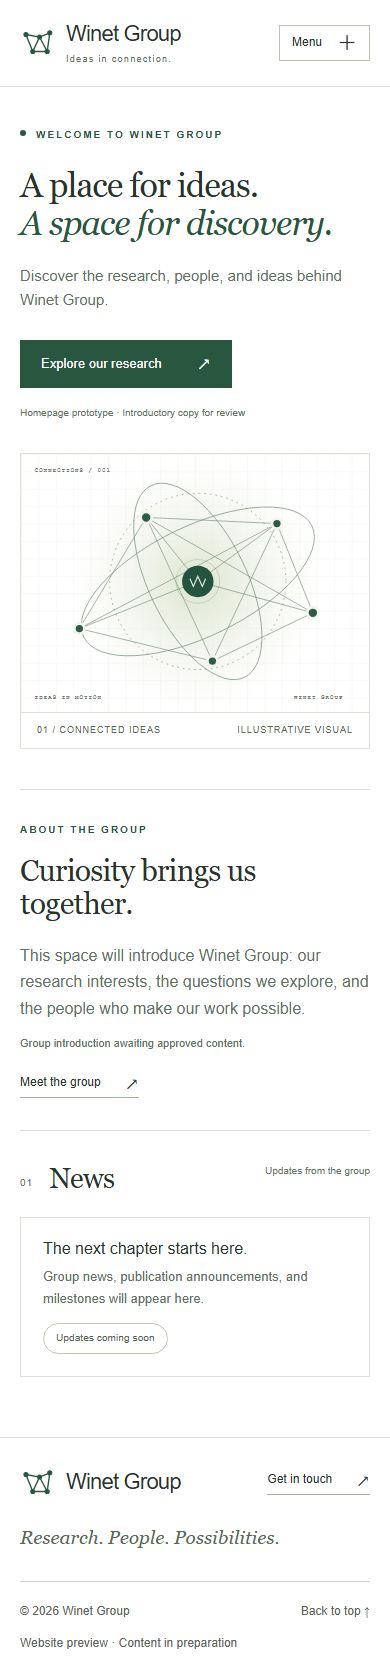
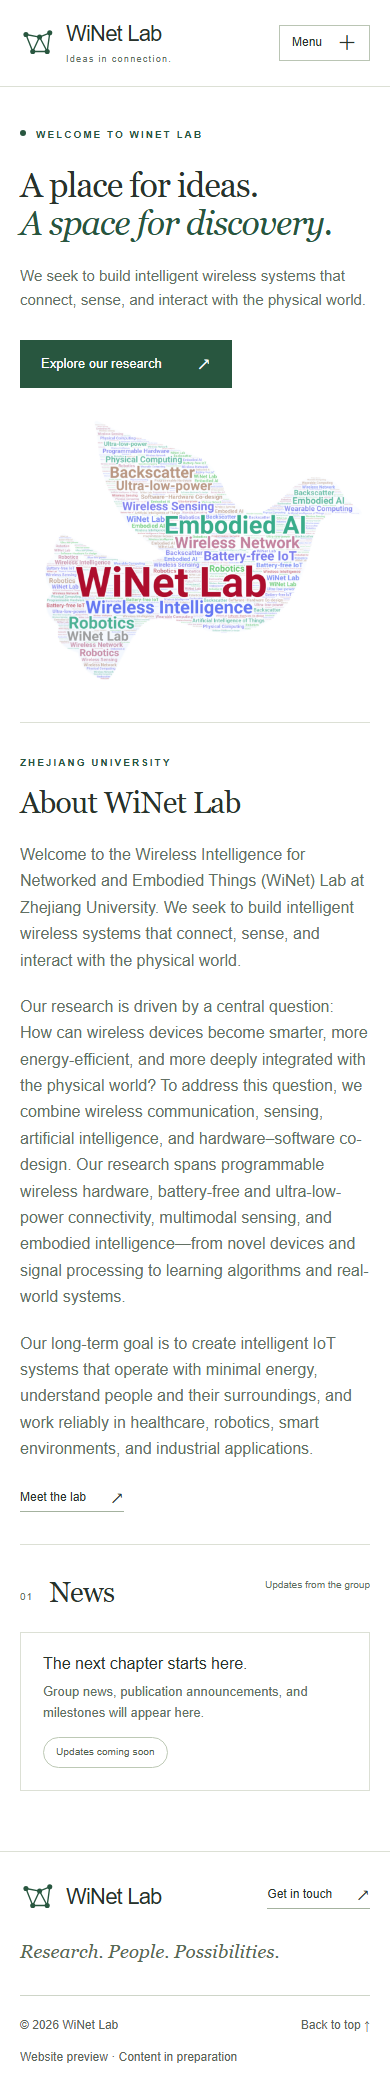
feat: integrate WiNet Lab introduction and word cloud

diff --git a/tests/home.spec.ts b/tests/home.spec.ts
@@ -10,7 +10,28 @@ test('homepage content, links, local assets and accessibility', async ({
   page.on('request', (request) => requests.push(request.url()));
   await page.goto('/');
   await expect(page.locator('html')).toHaveAttribute('lang', 'en');
-  await expect(page).toHaveTitle('Home | Winet Group');
+  await expect(page).toHaveTitle('Home | WiNet Lab');
+  await expect(
+    page.getByRole('heading', { name: 'About WiNet Lab', exact: true }),
+  ).toBeVisible();
+  await expect(page.locator('.about-copy > p')).toHaveCount(3);
+  await expect(page.locator('.about-copy')).toContainText(
+    'Wireless Intelligence for Networked and Embodied Things (WiNet) Lab at Zhejiang University',
+  );
+  const visual = page.getByRole('img', {
+    name: /WiNet Lab research word cloud/,
+  });
+  await expect(visual).toBeVisible();
+  await expect
+    .poll(() =>
+      visual.evaluate(
+        (img: HTMLImageElement) =>
+          img.complete &&
+          img.naturalWidth === 2154 &&
+          img.naturalHeight === 1614,
+      ),
+    )
+    .toBe(true);
   await expect(page.getByRole('heading', { level: 1 })).toHaveCount(1);
   await expect(
     page.getByRole('heading', { name: 'News', exact: true }),
@@ -39,6 +60,7 @@ test('homepage content, links, local assets and accessibility', async ({
   expect(errors).toEqual([]);
   const text = await page.locator('body').innerText();
   expect(text).not.toMatch(/[\u3400-\u9fff]/);
+  expect(text).not.toMatch(/winet\s+group/i);
   await page.keyboard.press('Tab');
   await expect(
     page.getByRole('link', { name: 'Skip to content' }),

diff --git a/src/styles/global.css b/src/styles/global.css
@@ -87,7 +87,7 @@
   }
   .about {
     display: grid;
-    grid-template-columns: 1fr 1fr;
+    grid-template-columns: 0.65fr 1.35fr;
     gap: 70px;
     padding: 46px 0 54px;
   }
@@ -142,9 +142,6 @@
   .brand span {
     font-size: 24px;
     letter-spacing: -0.8px;
-  }
-  .brand strong {
-    font-weight: 400;
   }
   .brand small {
     display: block;
@@ -230,30 +227,14 @@
     font-size: 19px;
     line-height: 1;
   }
-  .preview-note {
-    font-size: 10px;
-    color: var(--muted);
-    margin-top: 17px;
-  }
   .hero-visual {
     background: var(--paper);
-    border: 1px solid #dde2d5;
   }
-  .network-art {
+  .hero-visual img {
     display: block;
     width: 100%;
     height: auto;
-  }
-  figcaption {
-    display: flex;
-    justify-content: space-between;
-    gap: 12px;
-    border-top: 1px solid #dce1d3;
-    padding: 10px 16px;
-    font-size: 9px;
-    text-transform: uppercase;
-    letter-spacing: 1px;
-    color: #586954;
+    object-fit: contain;
   }
   .about h2 {
     font-family: var(--serif);
@@ -262,14 +243,10 @@
     margin-top: 15px;
     letter-spacing: -0.7px;
   }
-  .about-copy > p:first-child {
+  .about-copy > p {
     color: var(--muted);
     font-size: 16px;
-  }
-  .content-note {
-    font-size: 11px;
-    color: var(--muted);
-    margin: 12px 0 16px;
+    margin-bottom: 20px;
   }
   .text-link {
     display: inline-flex;
@@ -536,8 +513,7 @@
   }
   @media print {
     .menu-toggle,
-    .skip-link,
-    .preview-note {
+    .skip-link {
       display: none;
     }
     .container {

diff --git a/src/lib/paths.ts b/src/lib/paths.ts
@@ -1,6 +1,10 @@
-/** One URL helper for both root sites and GitHub Pages project sites. */
-export function sitePath(path = ''): string {
+/** Shared base handling for pages and files on GitHub Pages project sites. */
+export function assetPath(path: string): string {
   const base = import.meta.env.BASE_URL.replace(/\/$/, '');
+  return `${base}/${path.replace(/^\/+/, '')}`;
+}
+
+export function sitePath(path = ''): string {
   const suffix = path.replace(/^\/+|\/+$/g, '');
-  return `${base}/${suffix}${suffix ? '/' : ''}`;
+  return assetPath(`${suffix}${suffix ? '/' : ''}`);
 }

diff --git a/docs/architecture.md b/docs/architecture.md
@@ -1,15 +1,16 @@
-# Architecture — F01
+# Architecture — WiNet Lab
 
-Status: implemented for the Home prototype, pending user acceptance. Updated 2026-09-15.
+Status: Home layout and first supplied content batch implemented, pending user acceptance. Updated 2026-09-15.
 
 ## Boundaries
 
 - `src/layouts/SiteLayout.astro`: document language, metadata, shared header/footer, global stylesheet, and skip link.
-- `src/components/`: shared navigation, footer, section heading, and original decorative artwork. Header owns its mobile-menu script. Pages do not import other pages.
+- `src/components/`: shared Brand, navigation, footer, section heading, and small decorative brand mark. Header owns its mobile-menu script. Brand reads the name from site.json for both header and footer. Pages do not import other pages.
 - `src/pages/index.astro`: Home composition only.
 - `src/pages/[section].astro`: generates four explicitly unfinished route shells from navigation data. Replace with independent pages as their tasks are approved.
-- `src/data/site.json`: identity, description, navigation. `src/data/home.json`: introductory copy and section empty states. Fixed interface labels remain in components.
-- `src/lib/paths.ts`: shared base-path handling for every internal page link.
+- `src/data/site.json`: identity, description, navigation. `src/data/home.json`: hero copy, image metadata, the three supplied introduction paragraphs, and News empty-state text. Fixed interface labels remain in components.
+- `src/lib/paths.ts`: shared base-path handling for internal page links and static image URLs. File URLs do not receive page-style trailing slashes.
+- `public/images/winet-lab-wordcloud.png`: the user-supplied original Home image, 2154×1614; preserved without cropping or redrawing.
 - `src/styles/global.css`: design tokens, layout, components, responsive rules. No external fonts or image services.
 - `tests/` and `scripts/`: production-browser verification, screenshot capture, and a separate repository-base-path check.
 
@@ -19,7 +20,7 @@ Astro generates five static HTML pages. Only mobile navigation needs client Java
 
 The MARS Lab reference informed the five-page navigation. Following user review, Home now contains the visual introduction, group introduction, News, and footer; Events and Collaborators were removed from markup, content data, and styles. The reference is guidance, not a requirement to reproduce every section. Its page text and stylesheet structure were read; the live reference screenshot failed with ERR_CONNECTION_RESET. Pixel-level equivalence has not been verified or claimed.
 
-This prototype uses a pure-white (#ffffff) page background, forest green accents, system sans-serif body text, and Georgia headings. The footer, News panel, and illustration container also use white; the illustration retains its own graphic colors. The network illustration and group mark are original code graphics, not approved branding or actual research imagery. No reference-site people, publications, partner logos, or photos were copied.
+This site uses a pure-white (#ffffff) page background, forest green accents, system sans-serif body text, and Georgia headings. The footer, News panel, and image container also use white. The supplied word cloud replaces the original network illustration; its original colors and proportions are preserved. The old NetworkArt component and caption were removed. The small navigation/footer mark remains a draft code graphic. No reference-site people, publications, partner logos, or photos were copied.
 
 ## Runtime
 

diff --git a/docs/content-maintenance.md b/docs/content-maintenance.md
@@ -2,15 +2,15 @@
 
 Updated 2026-09-15. The website is English-only; the online content editor is required but not implemented.
 
-The user explicitly declined the proposed local content-management tool. The current priority is integrating real material into the initial five-page website; the final online editor follows. Do not build a local editor as an intermediate deliverable. Keep content separate from presentation so the final editor can use the same data. The project currently contains placeholder text only; the user's stated collection of material has not yet been supplied or located in the workspace.
+The user explicitly declined the proposed local content-management tool. The current priority is integrating real material into the initial five-page website; the final online editor follows. Do not build a local editor as an intermediate deliverable. Keep content separate from presentation so the final editor can use the same data. The user has now supplied the Home introduction and word cloud; other page records are still pending.
 
 ## Editing at this milestone
 
-src/data/home.json contains hero copy, group introduction, and the News empty-state text. The headline accepts a newline for intentional line breaks. Events and Collaborators were removed at the user's request; do not restore those fields or sections without a new request. src/data/site.json contains site name, description, and navigation. Astro escapes these plain-text fields.
+src/data/home.json contains hero copy, heroImage metadata, about.paragraphs (three user-supplied paragraphs rendered individually), and News empty-state text. The headline accepts a newline for intentional line breaks. heroImage.src is relative to public/; width/height record original image dimensions and alt describes it in English. The current source is public/images/winet-lab-wordcloud.png. Events and Collaborators were removed at the user's request; do not restore those fields or sections without a new request. src/data/site.json contains the canonical name WiNet Lab, description, and navigation. Astro escapes these plain-text fields.
 
 After a developer edits data, the development preview updates automatically. Production output must be regenerated with npm run build. JSON files are not yet a user-facing form tool, and News is not yet a record list. Arbitrary arrays will not render at this milestone.
 
-Introductory slogans and graphics are drafts. Actual group description, affiliation, topics, publications, member details, photos, approved logo, and news are still needed. The teacher's GitHub-related email is not approved public contact information.
+The three About paragraphs, lab's full name, Zhejiang University affiliation, and word-cloud image were supplied by the user and are now integrated. Remaining hero slogans and the small brand mark are design drafts. Detailed research projects, publications, member details/photos, final logo, and news are still needed. The teacher's GitHub-related email is not approved public contact information.
 
 ## Online tool proposal — separate approval required
 

diff --git a/docs/progress.md b/docs/progress.md
@@ -6,11 +6,15 @@
 
 用户已明确不制作本地内容管理工具，先将现有资料整合到五页网站初版，随后直接实现最终在线后台。此消息调整开发优先级，不自动代表 F01 视觉或整个项目已验收。
 
-本轮已检查项目文件与内容数据：目前只有原型占位文案，未发现用户提到的资料文档、照片、成员或论文清单。已知老师个人主页这一公开来源，但尚未明确它是否作为课题组初版的内容来源，以及哪些资料属于课题组展示范围。下一步需用户提供资料或指定来源；可分批处理，不要求预先整理成代码或 JSON。
+状态：首批 Home 资料整合已完成，等待用户验收。用户已提供三段正式英文介绍、用于 Home 的词云图，并要求统一名称为 WiNet Lab。介绍原文及段落保存于 src/data/home.json 的 about.paragraphs；完整名称及 Zhejiang University 归属均来自用户原文。其他四页和真实 News 仍待资料，不自动从老师个人主页搬入内容。
 
 资料明确后，先核对并整合首批内容，交付可查看页面及验证结果，按既有逐项确认要求继续。网站继续全英文、纯白背景，Home 不包含 Events/Collaborators；不上传 GitHub。最终后台选型与认证尚未确定。
 
-本轮仅更新需求、协作规则与进度，检查文档差异；没有修改网站代码或构建编辑器。变更通过本地 Git 保存。
+本轮完成：将三段原文放入 About WiNet Lab，移除介绍待补提示；扩大介绍正文列以容纳长段落。使用用户原图 public/images/winet-lab-wordcloud.png（2154×1614）替换并删除 NetworkArt 组件及图注；图片保持完整比例。新建共享 Brand 组件，页眉/页脚名称来自同一份 site.json，其他页面标题、元信息、占位页标识和本地启动提示同步 WiNet Lab。
+
+验证：类型检查无错误/警告，静态构建与6项浏览器测试通过；桌面/手机截图已检查，根路径图片成功加载。独立仓库子路径检查随交付完成，结果见 [F02 首批验证](verification/F02-home.md)。当前没有新建或实现编辑器。试验用 /winet-group/ 路径是部署兼容测试，不因展示名称变更而擅自改动实际仓库名。
+
+版本：本轮源码、原图、文档和截图统一保存为本地 Git 提交 feat: integrate WiNet Lab introduction and word cloud；提交哈希以 git log 为准。未推送 GitHub。下一步请用户验收本批首页内容与排版，再接收下一批资料。
 
 ## F01：英文首页原型与公共布局记录
 

diff --git a/docs/verification/F02-home.md b/docs/verification/F02-home.md
@@ -1,0 +1,24 @@
+# F02 — WiNet Lab Home content integration
+
+Date: 2026-09-15. First content batch implemented; user acceptance pending. Other pages and the online editor are not completed by this milestone.
+
+## Content provenance and scope
+
+The user supplied the three English paragraphs beginning “Welcome to the Wireless Intelligence…” and instructed their inclusion in Home. They are stored verbatim, in order, in `src/data/home.json` as `about.paragraphs`. The user also supplied the Home word cloud and specified the canonical name **WiNet Lab**.
+
+The image initially had no accessible file path in the conversation tools. It was subsequently found at `public/images/winet-lab-wordcloud.png` and visually matched to the supplied image. The original PNG is 2154×1614, 1,854,233 bytes. It replaces the original generated network visual and its caption, without cropping or redrawing. HTML dimensions reserve its aspect ratio and descriptive alt text supports nonvisual access.
+
+Header/footer branding now uses one Brand component and the same site.name value. Titles, metadata, the placeholder inner-page label, and the local launcher have been updated. Historical Git commits and example repository paths retain their original names; no remote repository was renamed.
+
+## Verification
+
+- Type checking: no errors, warnings, or hints.
+- Static build: all five routes generated.
+- Six production Chromium tests: passed, including three introduction paragraphs, WiNet Lab naming, loaded image with expected dimensions, navigation, keyboard use, and accessibility checks.
+- Responsive layouts: 320, 390, 768, and 1440 px without horizontal overflow. Desktop and mobile screenshots visually checked for complete paragraph flow and uncropped image display.
+- Repository base-path check: `/winet-group/` links, page titles, CSS, word-cloud URL/loading, and mobile menu checked by `scripts/check-base.mjs` after a separate build.
+- Source search: no old Winet Group display name, obsolete introduction fields, or NetworkArt references remain in application code.
+
+Current review images: [desktop](home-desktop.png), [mobile](home-mobile.png). Run the commands documented in [F01](F01.md) to reproduce the checks; `node scripts/capture.mjs` refreshes screenshots against the localhost preview.
+
+No deployment, remote edits, online editor, physical-device test, or Safari/Firefox validation occurred. News and the four inner pages still contain explicit placeholders. Review this Home batch with the user before proceeding to another content batch.

diff --git a/docs/requirements.md b/docs/requirements.md
@@ -4,13 +4,14 @@
 
 ## 网站
 
-- 名称：Winet Group；大小写等品牌规范尚待后续设计确认。
+- 名称：WiNet Lab，已由用户明确指定；替换网站原有 Winet Group 名称。完整名称为 Wireless Intelligence for Networked and Embodied Things (WiNet) Lab，单位为 Zhejiang University。
 - 参考网站：https://marslab.tech/ 。已读取五个栏目的网页内容；实际桌面、手机视觉与交互尚未逐项验证。
 - 页面：Home、Research、Publications、People、Contact。
 - 用户已确认网站正文全英文。本次开始公共导航、页脚及 Home 首页原型；缺少的真实资料使用明确的英文占位内容。其他四页仅为导航验收保留占位路由，不算完成内页任务。
 - 用户同意本地页面实现可先进行，仓库链接及远程核验不是本地开发的前置条件；仍须在部署前核对。
 - 页面布局参考该网站；本课题组的具体文案、研究方向、成员、论文、图片和联系信息尚待提供及确认。
 - 用户要求网站背景使用纯白（#ffffff），Home 移除 Events 和 Collaborators。参考站仅作布局参考，不需要照搬其全部内容；当前首页保留主视觉、课题组介绍和 News。
+- 用户已提供三段正式英文 Home 介绍，按原文与段落整合；同时提供词云图用于替换原生成主视觉。原图已取得并核对，保存为 public/images/winet-lab-wordcloud.png（2154×1614），保留完整比例，未重绘或裁剪。
 - 已确认使用在线内容管理后台，访问体验兼顾中国大陆与国际访客。
 - 用户已明确不需要本地内容管理工具；当前优先将现有资料整合为五页网站初版，随后直接实现最终在线管理后台。资料仍与页面组件分离，方便同一内容源接入后台。
 - 共享组件、独立页面、统一内容数据源；日常内容修改不应要求深入编辑代码。

diff --git a/docs/README.md b/docs/README.md
@@ -1,4 +1,4 @@
-# Winet Group 项目文档
+# WiNet Lab 项目文档
 
 本目录供用户及后续 agent 了解已确认需求、当前进度和证据。文档随任务进展更新。
 
@@ -11,6 +11,7 @@
 5. [架构与实现边界](architecture.md)
 6. [内容维护与在线工具方案](content-maintenance.md)
 7. [F01 验证记录与截图](verification/F01.md)
-8. [域名调研存档（已取消购买）](domain-research.md)
+8. [F02 首批资料整合验证](verification/F02-home.md)
+9. [域名调研存档（已取消购买）](domain-research.md)
 
-用户已取消购买域名和本地内容管理工具。当前优先整合真实资料完成五页网站初版，之后实现最终在线后台；现有项目为已验证的英文 Home 原型和四个占位路由，待提供资料或指定整合来源。在线后台和发布流程尚未实现，未上传 GitHub。实际仓库信息留待部署前核验。当前状态以 progress.md 顶部为准，域名相关记录仅供历史存档。
+用户已取消购买域名和本地内容管理工具。当前优先整合真实资料完成五页网站初版，之后实现最终在线后台。首批 Home 三段英文介绍与词云图已整合，网站名称统一为 WiNet Lab，等待用户验收；其他四页仍为占位路由。在线后台和发布流程尚未实现，未上传 GitHub。实际仓库信息留待部署前核验。当前状态以 progress.md 顶部为准，域名相关记录仅供历史存档。

diff --git a/README.md b/README.md
@@ -1,6 +1,6 @@
-# Winet Group website
+# WiNet Lab website
 
-An English-language academic group website, with a static Astro frontend and shared page components. The current milestone is the Home prototype. Research, Publications, People, and Contact are explicitly marked placeholders.
+An English-language academic lab website, with a static Astro frontend and shared page components. Home now includes the supplied WiNet Lab introduction and word-cloud image. Research, Publications, People, and Contact are explicitly marked placeholders.
 
 ## Local preview on this computer
 

diff --git a/docs/verification/F01.md b/docs/verification/F01.md
@@ -21,6 +21,8 @@ Revision after user review: pure-white page/panel/footer backgrounds; Events and
 
 Screenshots: [desktop](home-desktop.png), [mobile](home-mobile.png). These show a placeholder-content design, not an accepted final site.
 
+The screenshot files now track the latest Home revision. For the supplied introduction, word cloud, and WiNet Lab naming changes, see [F02 verification](F02-home.md); this document records the earlier layout milestone.
+
 ## Reproduce here (PowerShell)
 
 ```powershell

diff --git a/AGENTS.md b/AGENTS.md
@@ -1,4 +1,4 @@
-# Winet Group 项目协作规则
+# WiNet Lab 项目协作规则
 
 ## 接手顺序
 
